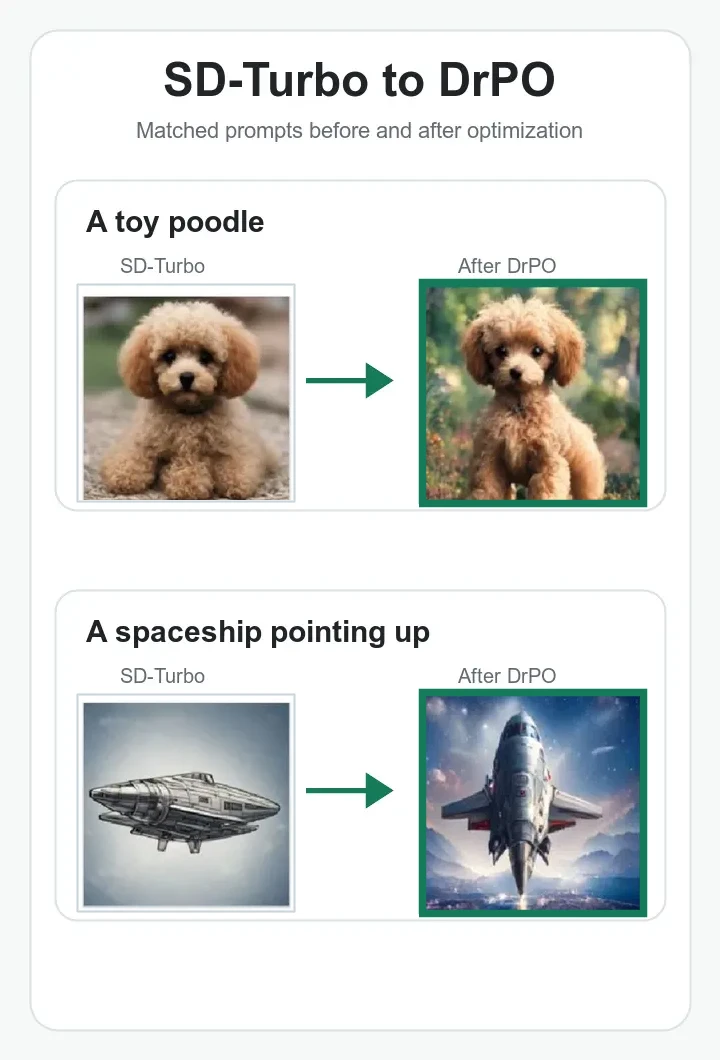
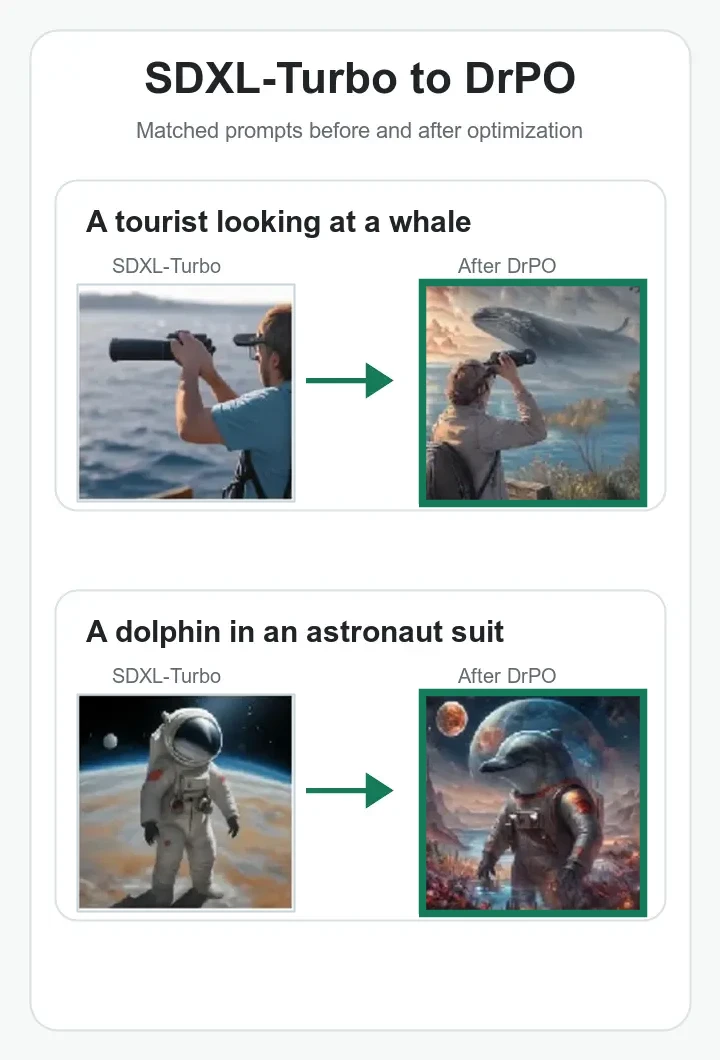
Deploy SDXL teaser update

diff --git a/index.html b/index.html
@@ -58,10 +58,10 @@
         <figure class="hero-teaser">
           <picture>
             <source media="(max-width: 560px)" srcset="assets/hero-teaser-mobile.webp">
-            <img src="assets/hero-teaser.webp" alt="Matched SD-Turbo to DrPO examples for text-to-image prompts.">
+            <img src="assets/hero-teaser.webp" alt="Matched SDXL-Turbo to DrPO examples for text-to-image prompts.">
           </picture>
           <figcaption>
-            Matched prompts before and after DrPO preference optimization, while preserving one-step generation.
+            Matched SDXL-Turbo prompts before and after DrPO preference optimization, while preserving one-step generation.
           </figcaption>
         </figure>
       </section>